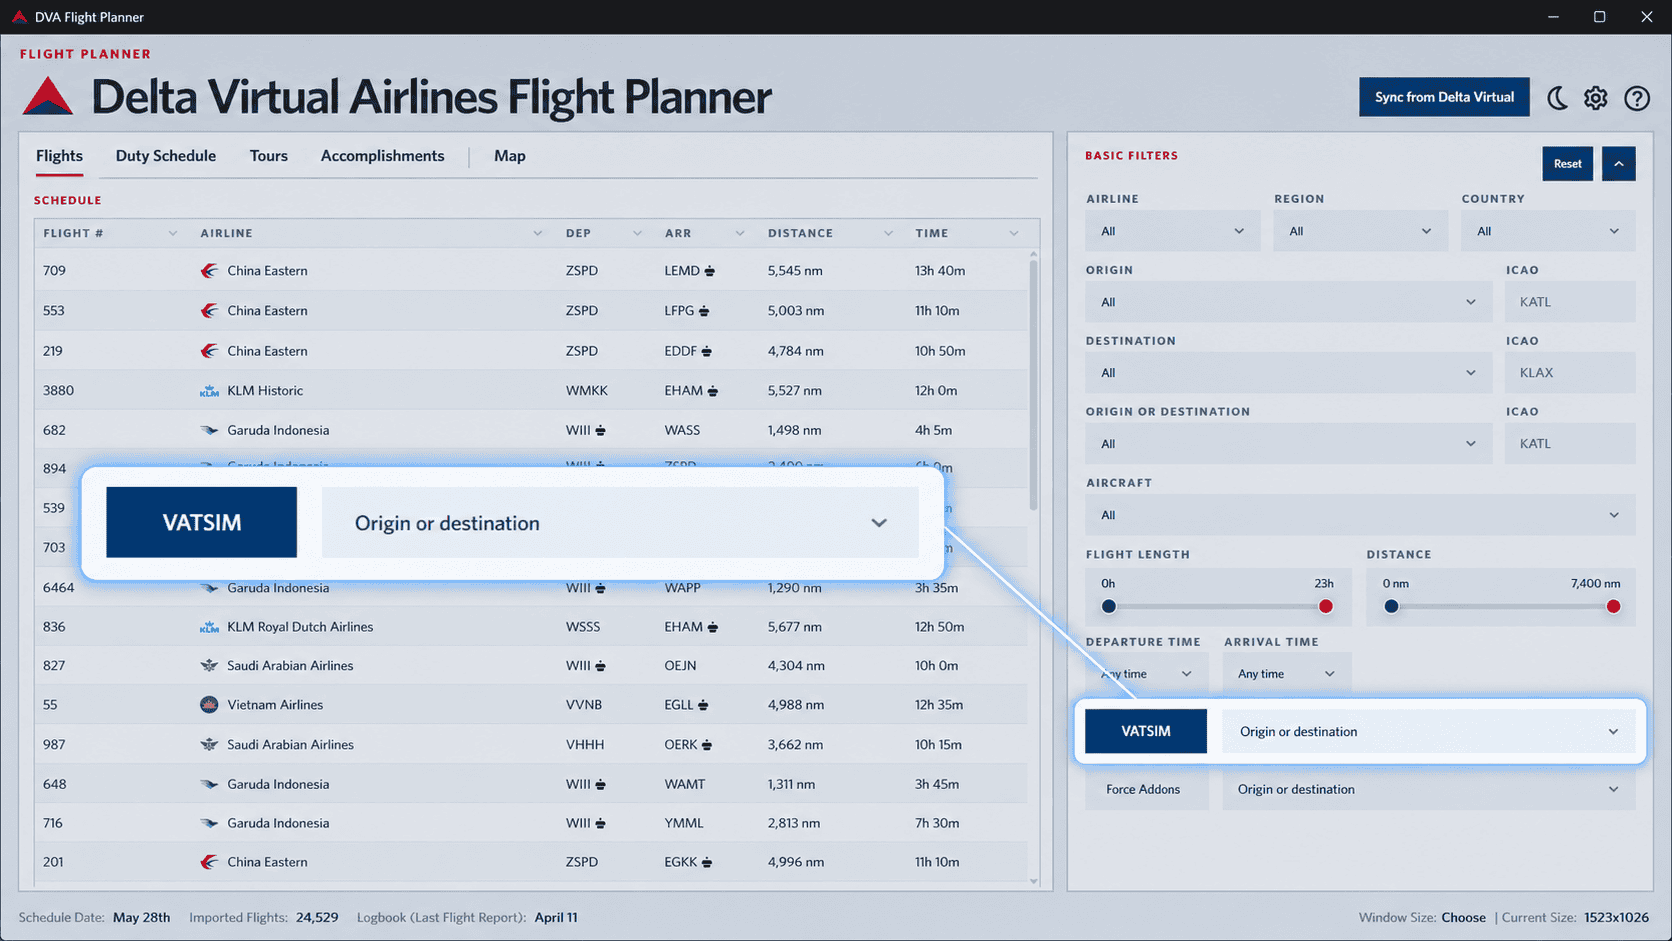
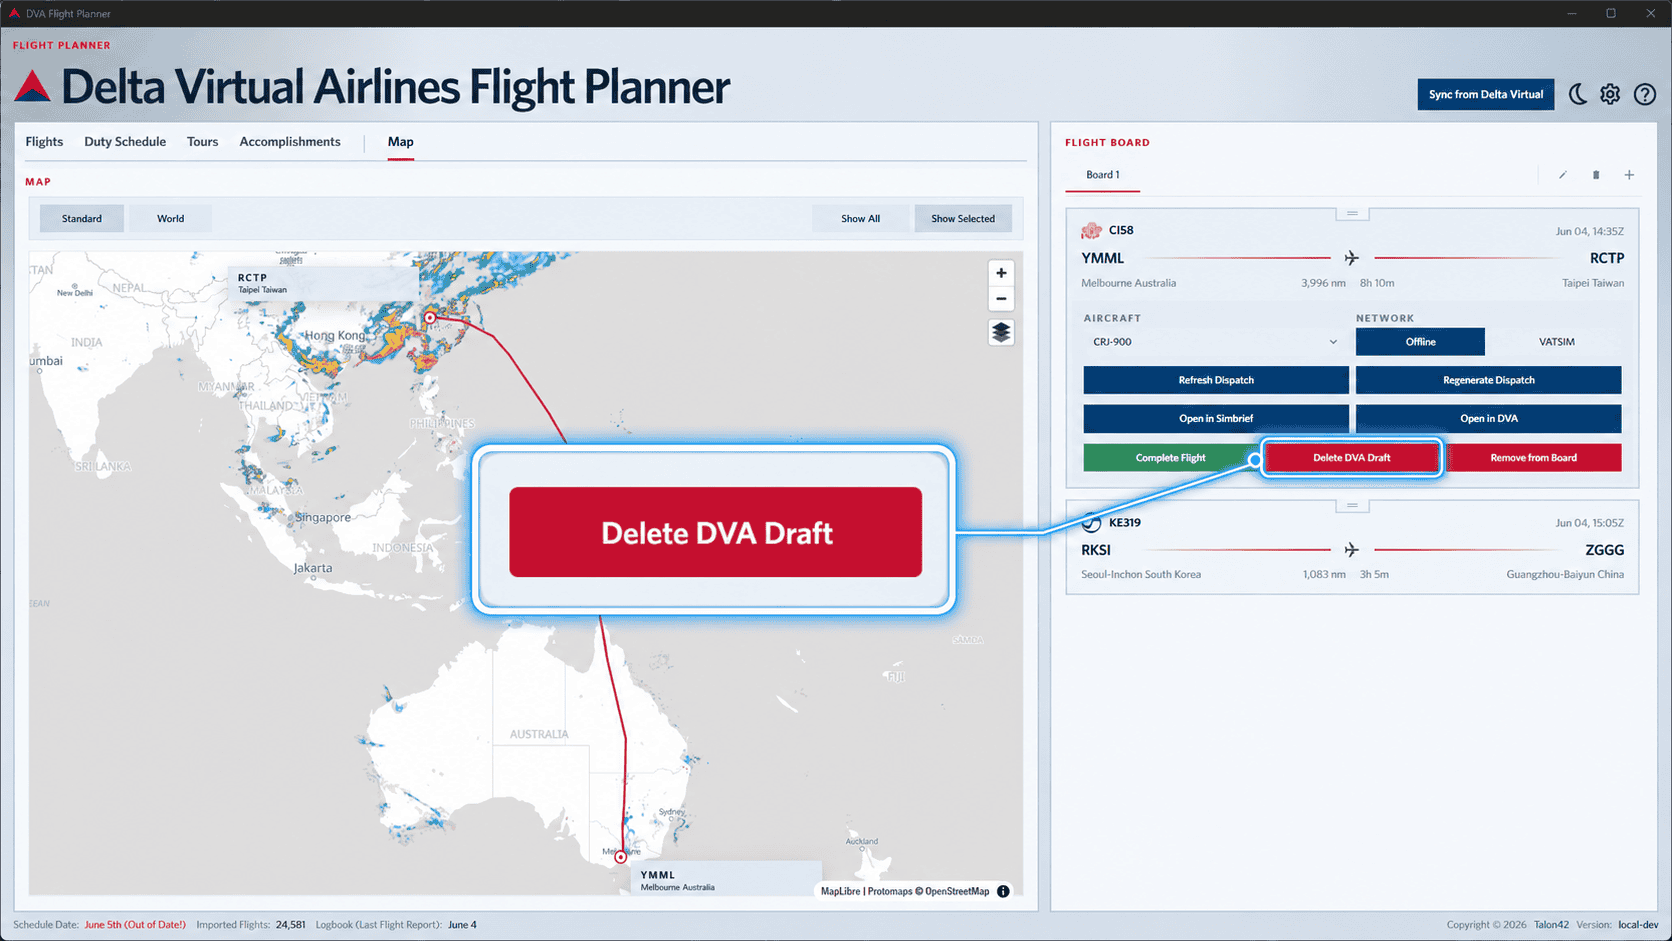
release finalization

diff --git a/src/features/whatsNew/content/NewContent03.md b/src/features/whatsNew/content/NewContent03.md
@@ -1,7 +1,19 @@
 ---
-eyebrow: VATSIM ATC
-title: VATSIM Map Overlay
-imageAlt: VATSIM Map
+eyebrow: Release Notes
+title: v0.7.3-beta
+imageAlt: 
+layout: text
 ---
 
-Built in map view can now display VATSIM availability regions and airports. Click to view who is online and see additional details. 
+## What's New
+- Added SimBrief dispatch regeneration from generated dispatch state.
+- Added support for changing selected aircraft after SimBrief dispatch generation.
+- Added DVA draft delete action from flight board details.
+- Added stronger airport/scenery matching logic for addon folders.
+
+## Fixed
+- Fixed custom SimBrief airframes not showing on flight board aircraft dropdown.
+- Fixed aircraft matching between custom airframes, SimBrief aircraft, and DVA-supported aircraft mappings.
+- Fixed flight board action row layout, selector height, and button alignment regressions.
+- Improved addon airport scan status and scanner performance.
+- Improved schedule parsing/cache reliability.

diff --git a/src/features/whatsNew/content/NewContent02.md b/src/features/whatsNew/content/NewContent02.md
@@ -1,7 +1,7 @@
 ---
-eyebrow: VATSIM ATC
-title: Find an Airport
-imageAlt: VATSIM Icon
+eyebrow: Simbrief Dispatch
+title: Regenerate a Simbrief Dispatch
+imageAlt: Simbrief Dispatch
 ---
 
-Quickly identify VATSIM ATC coverage with the new controller icon next to Departure or Arrival airports.
+Regenerate your Simbrief flight plans directly with the ability to choose a new aircraft. This was also update your current DVA draft flight report. Use Regenerate if you want a brand new Simbrief plan from scratch. Use Refresh if you modified the flight plan directly on the Simbrief website and want the changes updated on the app.

diff --git a/src/features/whatsNew/content/NewContent01.md b/src/features/whatsNew/content/NewContent01.md
@@ -1,7 +1,7 @@
 ---
-eyebrow: VATSIM ATC
-title: Find a VATSIM Airport
-imageAlt: VATSIM Filter
+eyebrow: Delete Draft
+title: Delete DVA Draft Report
+imageAlt: Delete DVA Draft Report
 ---
 
-Enable VATSIM to quickly filter airports that have available online ATC coverage
+Delete your DVA draft report directly from the app without having to go to the DVA Website.
